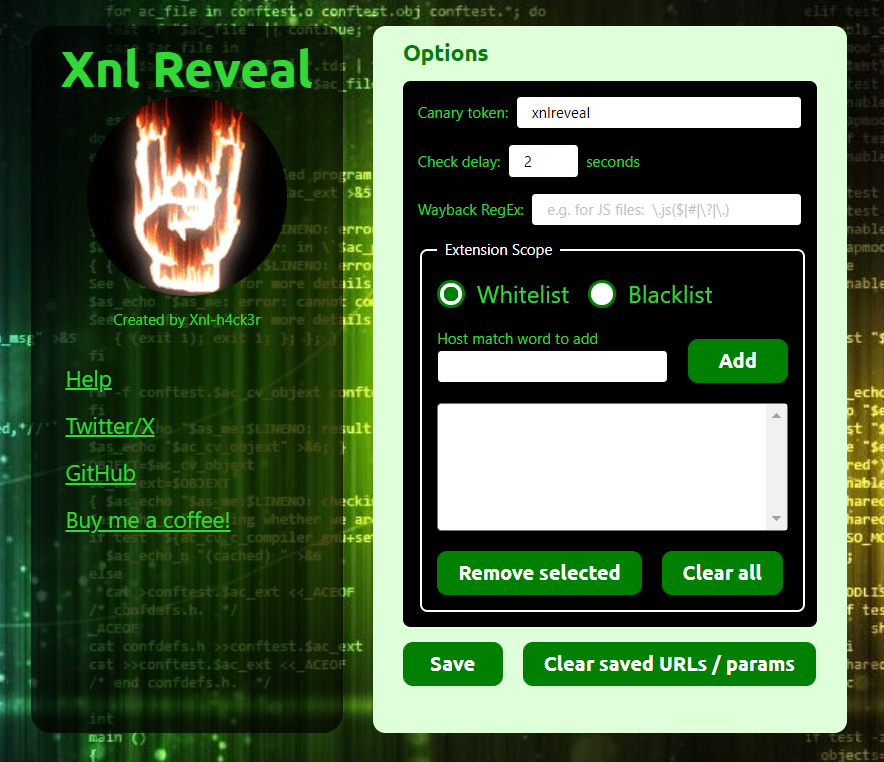
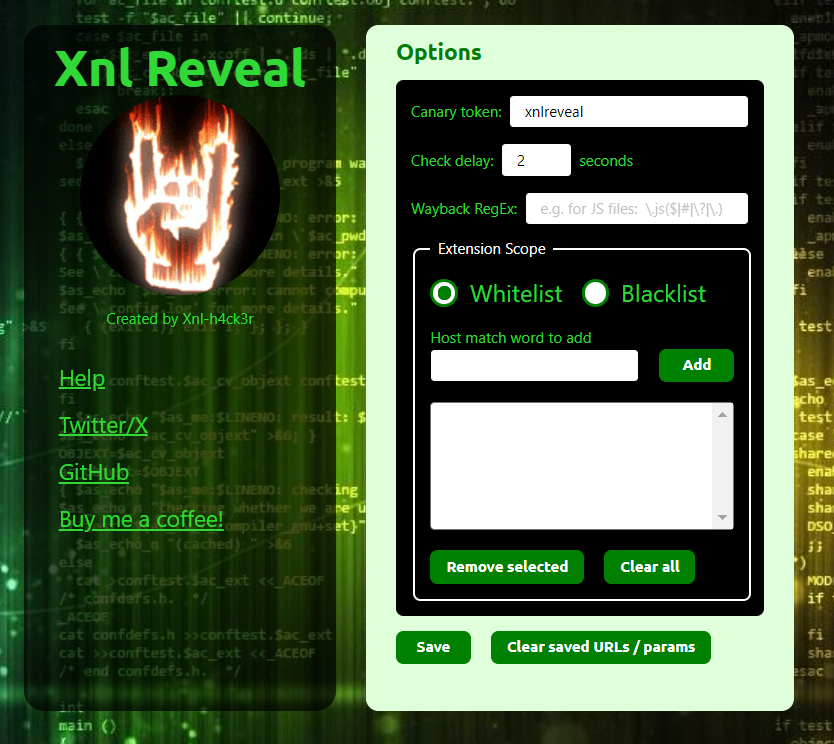
v2.4 - See CHANGELOG

Changed region(s): [[0.0, 0.0, 1.0, 1.0]]

diff --git a/chrome/xnl.css b/chrome/xnl.css
@@ -724,7 +724,7 @@ button {
     color: white;
     border-radius: 0.5em;
     border: 1px solid green;
-    font-size: 1rem;
+    font-size: 1em;
     padding-inline: 1em;
     padding-block: 0.5em;
     min-width: 5em;

diff --git a/README.md b/README.md
@@ -1,6 +1,6 @@
 <center><img src="https://github.com/xnl-h4ck3r/XnlReveal/blob/main/images/title.png"></center>
 
-## About - v2.3
+## About - v2.4
 
 This is a **Chrome/Firefox Extension** that can do the following:
 

diff --git a/CHANGELOG.md b/CHANGELOG.md
@@ -1,5 +1,11 @@
 ## Changelog
 
+- v2.4
+
+  - Changed
+
+    - Small UI improvement
+
 - v2.3
 
   - Changed
